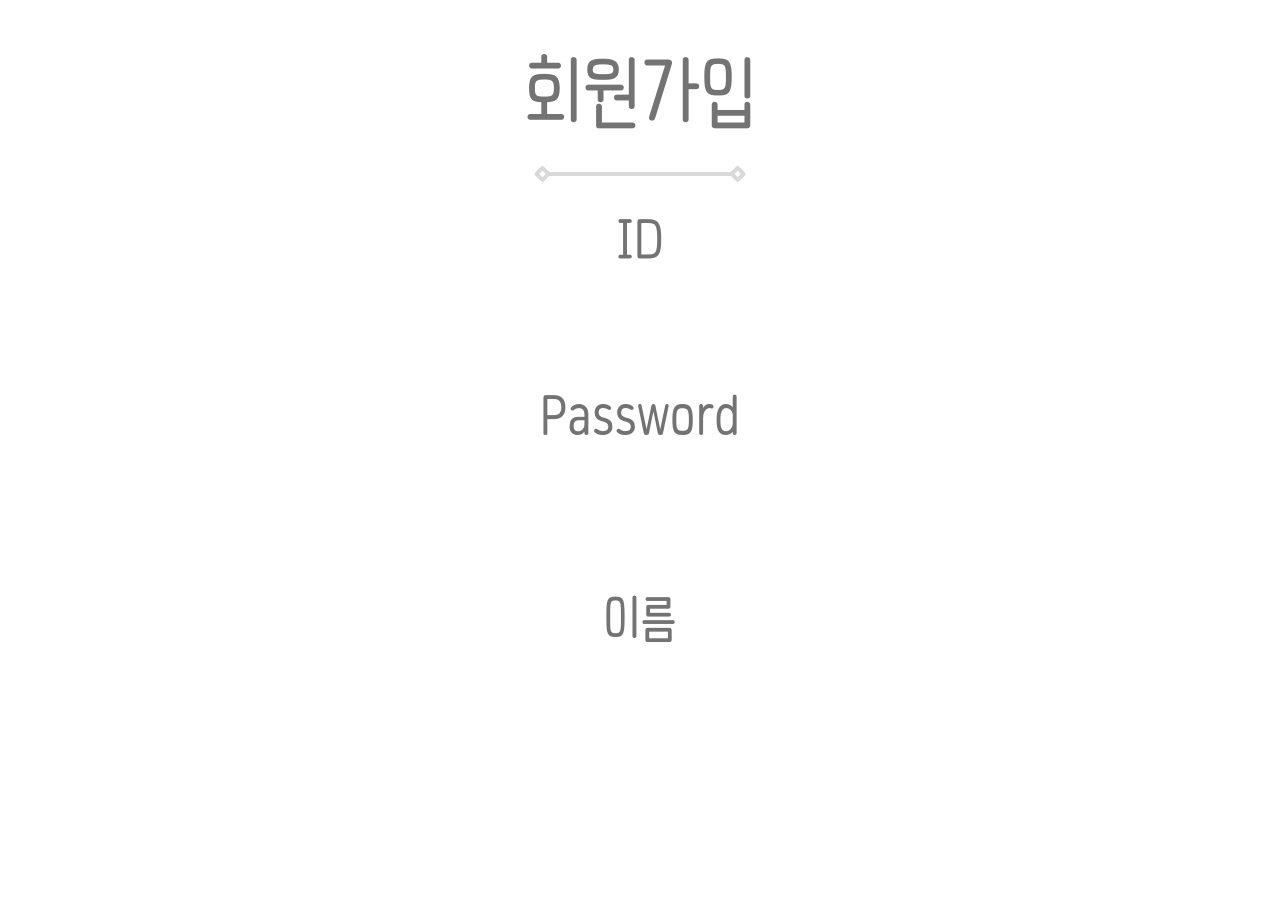
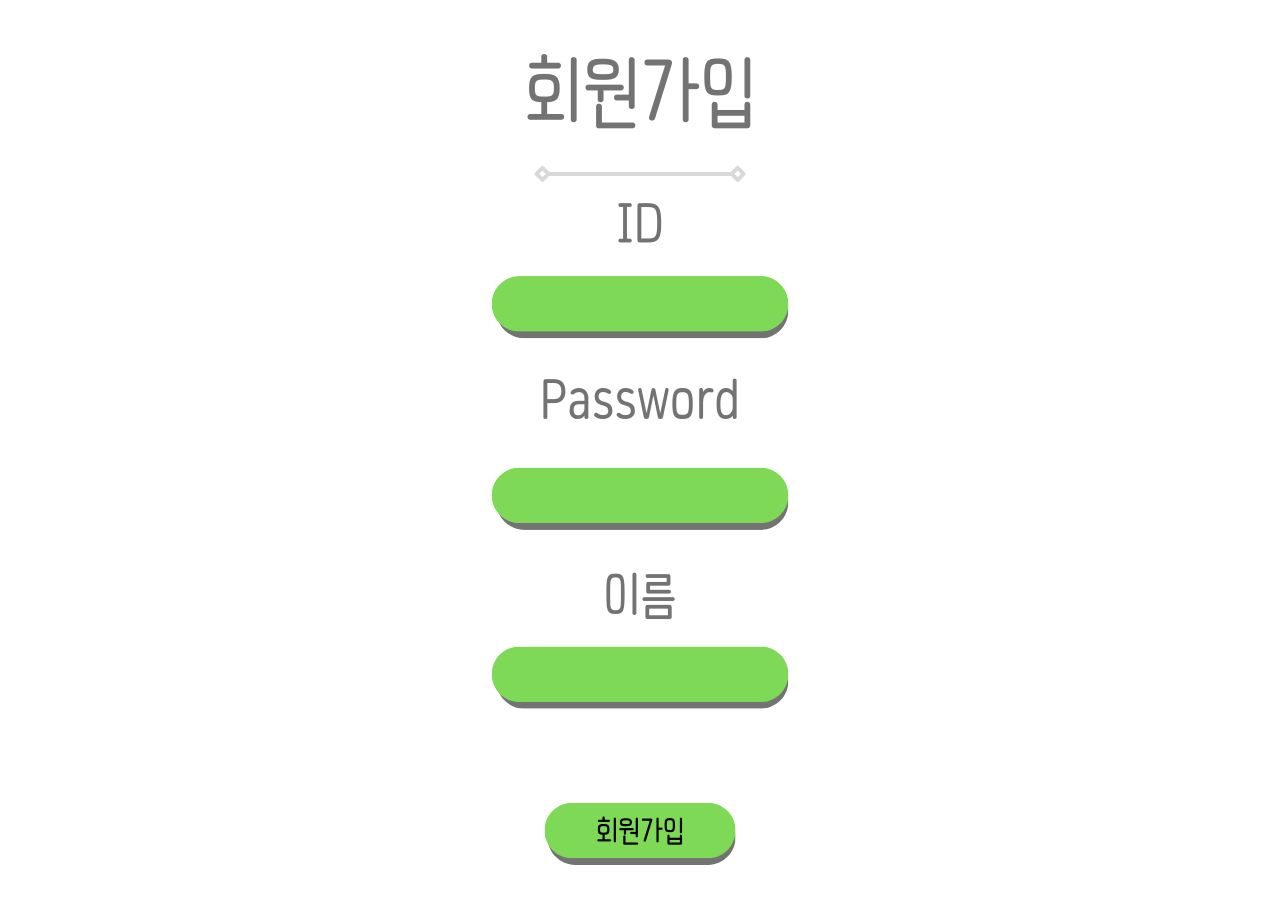
basicFrame

diff --git a/src/Frame/SigninFrame.java b/src/Frame/SigninFrame.java
@@ -19,10 +19,7 @@ public class SigninFrame extends JFrame{
 	private JTextField pwField;
 	private JTextField nameField;
 	private JButton signIn;
-	
-	private JTextPane testIdField;
-	private JTextPane testPwField;
-	
+
 	public SigninFrame() {
 		initData();
 		setInitLayout();
@@ -36,27 +33,23 @@ public class SigninFrame extends JFrame{
 		setContentPane(frame);
 		setSize(1280, 900);
 		
-//		idField = new JTextField();
-//		idField.setBorder(javax.swing.BorderFactory.createEmptyBorder());
-//		idField.setBounds(500, 250, 220, 40);
-		
-		testIdField = new JTextPane();
-		testIdField.insertIcon(new ImageIcon("img/textField.png"));
-		testIdField.setBounds(480, 260, 300, 80);
-		
-		testPwField = new JTextPane();
-		testPwField.insertIcon(new ImageIcon("img/textField.png"));
-		testPwField.setBounds(480, 460, 300, 80);
+		idField = new JTextField();
+		idField.setBorder(javax.swing.BorderFactory.createEmptyBorder());
+		idField.setBounds(500, 270, 260, 30);
 		
 		pwField = new JTextField();
 		pwField.setBorder(javax.swing.BorderFactory.createEmptyBorder());
-		pwField.setBounds(500, 450, 220, 40);
+		pwField.setBounds(500, 460, 260, 30);
 		
+		nameField = new JTextField();
+		nameField.setBorder(javax.swing.BorderFactory.createEmptyBorder());
+		nameField.setBounds(500, 640, 260, 30);
 		
 		signIn = new JButton(new ImageIcon("img/signinButton190_68.png"));
-		signIn.setBounds(520, 730, 220, 80);
+		signIn.setBounds(520, 770, 220, 80);
 		signIn.setBorderPainted(false);
 		signIn.setBackground(new Color(255,255,255));
+		
 	}
 	public void setInitLayout() {
 		setLayout(null);
@@ -64,10 +57,9 @@ public class SigninFrame extends JFrame{
 		setLocationRelativeTo(null);
 		
 		add(signIn);
-//		add(idField);
-//		add(pwField);
-		add(testIdField);
-		add(testPwField);
+		add(idField);
+		add(pwField);
+		add(nameField);
 		
 		setVisible(true);
 	}
